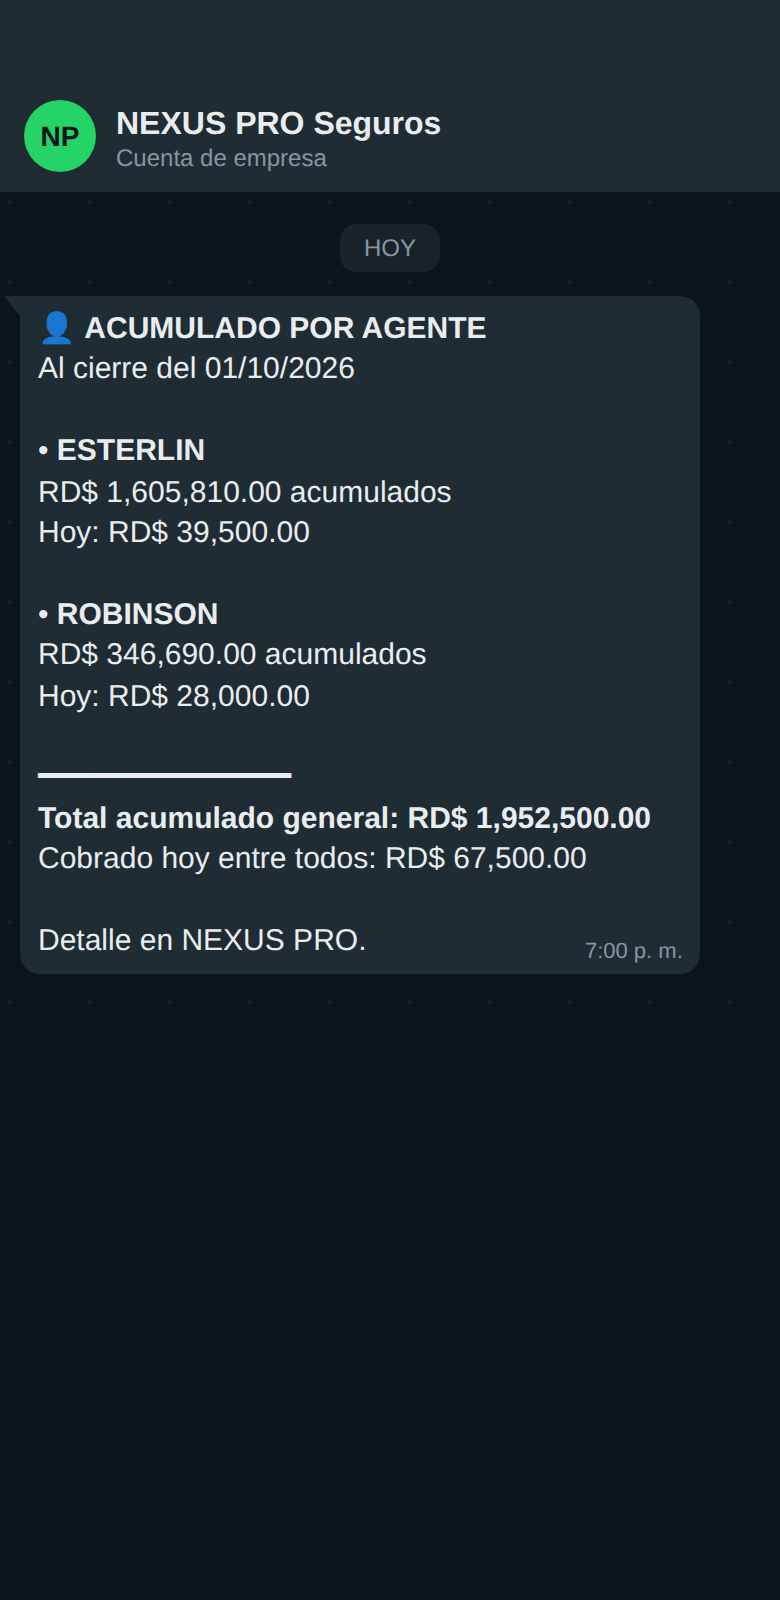
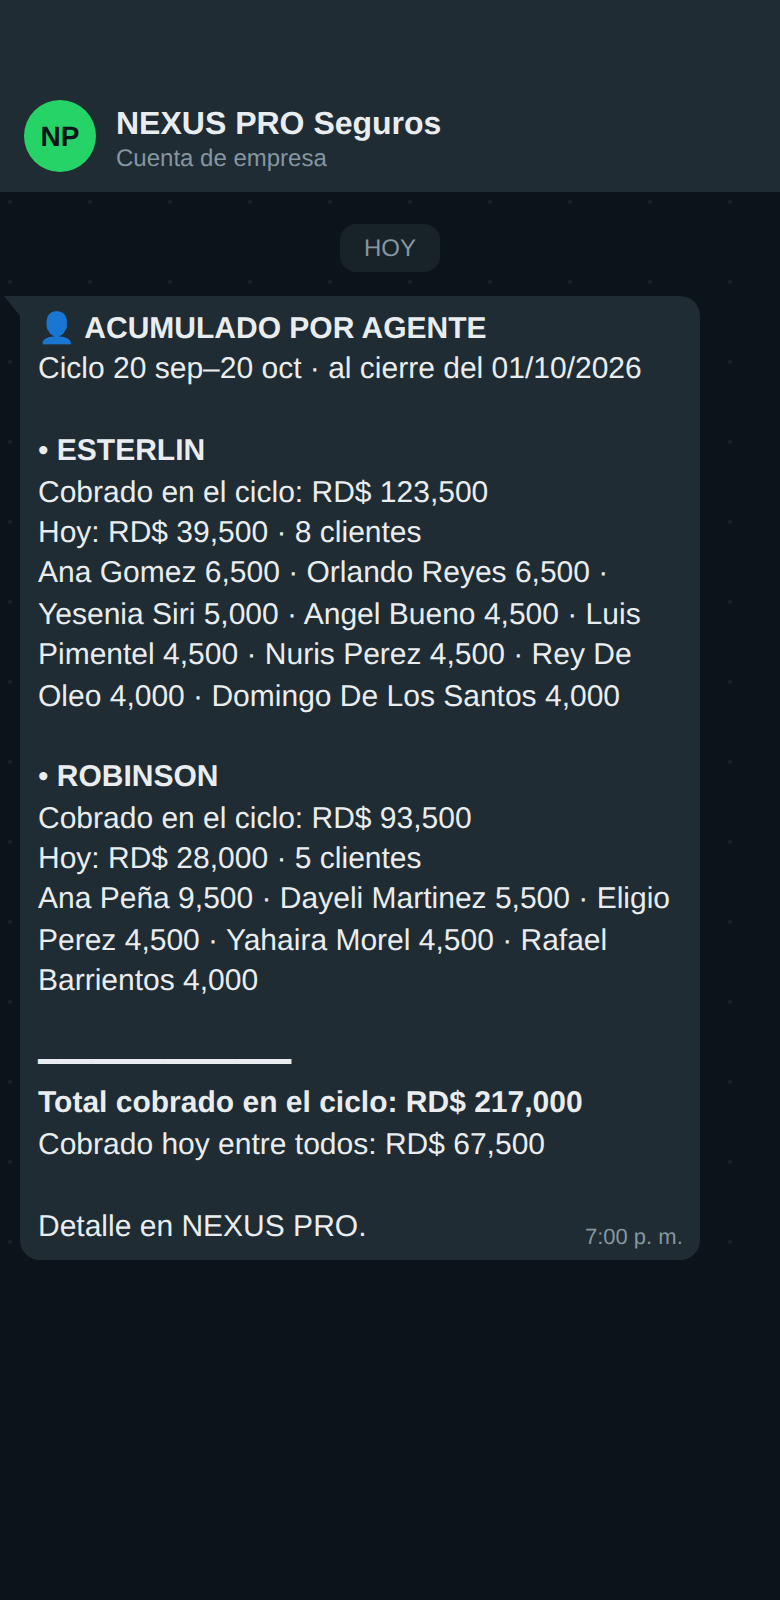
Acumulado por agente: por ciclo y con los clientes cobrados hoy (sin publicar)
Claude-Session: https://claude.ai/code/session_01XsqePqNsr899Mjtsv3s8DJ

Changed region(s): [[0.0, 0.2812, 0.9231, 0.8125], [0.0308, 0.2188, 0.8308, 0.25]]

diff --git a/supabase/functions/whatsapp-reporte-diario-agentes/index.ts b/supabase/functions/whatsapp-reporte-diario-agentes/index.ts
@@ -110,10 +110,11 @@ function fechaCobro(a: any) {
 }
 async function cobradoHoyPorAgente(ini: string, fin: string) {
   const { data, error } = await db.from("abonos")
-    .select("agente_cobro,monto,metodo,validacion_estado,validado_at,fecha,created_at,estado,reversado_at")
+    .select("agente_cobro,cliente_id,monto,metodo,validacion_estado,validado_at,fecha,created_at,estado,reversado_at")
     .or(`validado_at.gte.${ini},fecha.gte.${ini},created_at.gte.${ini}`);
   if (error) throw new Error(`abonos hoy: ${error.message}`);
-  const out = new Map<string, number>();
+  // agente → { total, porCliente: cliente_id → monto }
+  const out = new Map<string, { total: number; porCliente: Map<string, number> }>();
   for (const a of data || []) {
     const t = fechaCobro(a);
     if (!t) continue;
@@ -121,7 +122,12 @@ async function cobradoHoyPorAgente(ini: string, fin: string) {
     if (ms < new Date(ini).getTime() || ms >= new Date(fin).getTime()) continue;
     if (a.reversado_at || String(a.estado || "") === "Reversado") continue;
     const k = String(a.agente_cobro || "");
-    out.set(k, (out.get(k) || 0) + (Number(a.monto) || 0));
+    if (!out.has(k)) out.set(k, { total: 0, porCliente: new Map() });
+    const r = out.get(k)!;
+    const m = Number(a.monto) || 0;
+    r.total += m;
+    const c = String(a.cliente_id || "");
+    r.porCliente.set(c, (r.porCliente.get(c) || 0) + m);
   }
   return out;
 }
@@ -250,28 +256,57 @@ const EJEMPLO_ADMIN_V2 = ["01/10/2026", "ANA", "20 sep–20 oct", "217,000", "40
   "Luis Díaz — 4 meses — RD$ 12,000", "Rosa Peña — 2 meses — RD$ 8,000", "Juan Cruz — 1 mes — RD$ 6,500", "10",
   "JUAN", "93,500", "80,000", "346,690", "14", "52,300", "2"];
 
-// Acumulado por agente. Tiene dos bloques fijos (hoy hay dos agentes activos: ESTERLIN y ROBINSON);
-// Meta no deja repetir bloques ni poner saltos de línea dentro de una variable. Si algún día hay más
-// agentes, los demás se agregan al final del último bloque para no perderlos.
+// Acumulado por agente DEL CICLO (20 → 20) + los clientes cobrados hoy. Dos bloques fijos (hoy hay dos
+// agentes activos: ESTERLIN y ROBINSON); Meta no deja repetir bloques ni poner saltos de línea dentro de
+// una variable, así que la lista de clientes de cada agente va en una sola línea separada por «·».
+// Si algún día hay más agentes, los demás se agregan al final de la lista del segundo bloque.
 const CUERPO_ACUMULADO = [
   "👤 *ACUMULADO POR AGENTE*",
-  "Al cierre del {{1}}",
+  "Ciclo {{1}} · al cierre del {{2}}",
   "",
-  "• *{{2}}*",
-  "RD$ {{3}} acumulados",
-  "Hoy: RD$ {{4}}",
+  "• *{{3}}*",
+  "Cobrado en el ciclo: RD$ {{4}}",
+  "Hoy: RD$ {{5}} · {{6}}",
+  "{{7}}",
   "",
-  "• *{{5}}*",
-  "RD$ {{6}} acumulados",
-  "Hoy: RD$ {{7}}",
+  "• *{{8}}*",
+  "Cobrado en el ciclo: RD$ {{9}}",
+  "Hoy: RD$ {{10}} · {{11}}",
+  "{{12}}",
   "",
   "━━━━━━━━━━━━━━",
-  "*Total acumulado general: RD$ {{8}}*",
-  "Cobrado hoy entre todos: RD$ {{9}}",
+  "*Total cobrado en el ciclo: RD$ {{13}}*",
+  "Cobrado hoy entre todos: RD$ {{14}}",
   "",
   "Detalle en NEXUS PRO."
 ].join("\n");
-const EJEMPLO_ACUMULADO = ["01/10/2026", "JUAN", "1,605,810.00", "39,500.00", "PEDRO", "346,690.00", "28,000.00", "1,952,500.00", "67,500.00"];
+const EJEMPLO_ACUMULADO = ["20 sep–20 oct", "01/10/2026", "JUAN", "123,500", "39,500", "8 clientes",
+  "Ana Gómez 6,500 · Orlando Reyes 6,500 · Yesenia Siri 5,000", "PEDRO", "93,500", "28,000", "5 clientes",
+  "Ana Peña 9,500 · Dayeli Martínez 5,500", "217,000", "67,500"];
+
+// «ANA LUISA GOMEZ GARCIA» → «Ana Gomez»; respeta partículas («Domingo De Los Santos», «Rey De Oleo»).
+const PARTICULAS = new Set(["DE", "DEL", "LA", "LAS", "LOS", "Y"]);
+function nombreYApellido(v: unknown) {
+  const t = String(v || "").trim().split(/\s+/).filter(Boolean);
+  if (!t.length) return "Sin nombre";
+  let i = t.length >= 4 && !PARTICULAS.has(t[1].toUpperCase()) ? 2 : 1;
+  const out = [t[0]];
+  while (i < t.length && PARTICULAS.has(t[i].toUpperCase())) out.push(t[i++]);
+  if (i < t.length) out.push(t[i]);
+  return out.map((w) => w.charAt(0).toUpperCase() + w.slice(1).toLowerCase()).join(" ");
+}
+function listaClientesHoy(items: { nom: string; monto: number }[], maxChars = 230) {
+  if (!items.length) return "Sin cobros hoy";
+  const orden = [...items].sort((a, b) => b.monto - a.monto);
+  const out: string[] = [];
+  let usados = 0;
+  for (let k = 0; k < orden.length; k++) {
+    const p = `${nombreYApellido(orden[k].nom)} ${fmtCorto(orden[k].monto)}`;
+    if (out.length && usados + p.length + 3 > maxChars - 20) { out.push(`… y ${orden.length - k} más`); break; }
+    out.push(p); usados += p.length + 3;
+  }
+  return out.join(" · ");
+}
 
 // Vista previa del texto tal como lo verá el teléfono (para pruebas «dry» y para medir el largo).
 function renderizar(cuerpo: string, vars: string[]) {
@@ -551,14 +586,20 @@ Deno.serve(async (req: Request) => {
 
     // 3) Acumulado por agente → solo administradores, un mensaje al día (cuando Meta aprueba la plantilla).
     const hoyMapa = await cobradoHoyPorAgente(hoy.ini, hoy.fin);
-    const orden = [...infos].sort((x, y) => y.enPoder - x.enPoder);
-    const slot = (i: any) => i ? [String(i.a.nom || "Agente"), fmtMonto(i.enPoder), fmtMonto(hoyMapa.get(String(i.a.id)) || 0)] : ["—", "0.00", "0.00"];
-    const extra = orden.slice(2).map((i) => ` · ${i.a.nom}: RD$ ${fmtMonto(i.enPoder)} acumulados, hoy RD$ ${fmtMonto(hoyMapa.get(String(i.a.id)) || 0)}`).join("");
+    const nomCliente = new Map(clientes.map((c: any) => [String(c.id), String(c.nom || "Sin nombre")]));
+    const hoyDe = (i: any) => hoyMapa.get(String(i.a.id)) || { total: 0, porCliente: new Map<string, number>() };
+    const orden = [...infos].sort((x, y) => y.cobrado - x.cobrado);
+    const slot = (i: any) => {
+      if (!i) return ["—", "0", "0", "0 clientes", "Sin cobros hoy"];
+      const h = hoyDe(i);
+      const n = h.porCliente.size;
+      const items = [...h.porCliente.entries()].map(([id, monto]) => ({ nom: nomCliente.get(id) || "Sin nombre", monto }));
+      return [String(i.a.nom || "Agente"), fmtCorto(i.cobrado), fmtCorto(h.total), `${n} cliente${n === 1 ? "" : "s"}`, listaClientesHoy(items)];
+    };
     const b1 = slot(orden[0]), b2 = slot(orden[1]);
-    b2[2] += extra;
-    const totalAcum = orden.reduce((t, i) => t + i.enPoder, 0);
-    const totalHoy = orden.reduce((t, i) => t + (hoyMapa.get(String(i.a.id)) || 0), 0);
-    const varsAcumulado = [fecha, ...b1, ...b2, fmtMonto(totalAcum), fmtMonto(totalHoy)].map(limpiarParam);
+    b2[4] += orden.slice(2).map((i) => ` · ${i.a.nom}: ciclo RD$ ${fmtCorto(i.cobrado)}, hoy RD$ ${fmtCorto(hoyDe(i).total)}`).join("");
+    const totalHoy = [...hoyMapa.values()].reduce((t, r) => t + r.total, 0);
+    const varsAcumulado = [etiqueta, fecha, ...b1, ...b2, fmtCorto(negocioCiclo), fmtCorto(totalHoy)].map(limpiarParam);
     if (dry) {
       resultados.push({ acumulado_agentes: true, vista: renderizar(CUERPO_ACUMULADO, varsAcumulado) });
     } else if (!soloAgenteId && (await plantillaAprobada(cfg.zernio_account_id, TEMPLATE_ACUMULADO))) {

diff --git a/docs/bitacora/2026-10-02-0930-claude.md b/docs/bitacora/2026-10-02-0930-claude.md
@@ -1,0 +1,25 @@
+## Claude — 2026-10-02 09:30 (RD)
+
+# «Acumulado por agente»: por ciclo + clientes cobrados hoy
+
+Corrige `2026-10-02-0900-claude.md` a pedido del dueño: «Recuerda que es por ciclo y el detalle de los clientes
+que se han cobrado».
+
+## Cambio (rama `claude/reporte-diario-v2`, SIN publicar)
+
+- `acumulado_agentes_diario` ahora tiene **14 variables**:
+  - encabezado «Ciclo 20 sep–20 oct · al cierre del dd/mm/aaaa»;
+  - por agente: **Cobrado en el ciclo** (`seguros_resumen_ciclo_agente_core.cobrado_validado`, atribución por
+    fecha real de cobro/validación), **Hoy** con cantidad de clientes, y la **lista de clientes cobrados hoy**
+    con su monto, del mayor al menor;
+  - total: **Total cobrado en el ciclo** (todos los agentes, sin sumar entregas/transferencias) y cobrado hoy.
+- Ya no muestra el acumulado histórico en poder: eso queda en el reporte de cada agente.
+- Nombres cortos (primer nombre + primer apellido, respetando «De», «De Los»). La lista va en una línea separada
+  por «·» porque Meta no permite saltos de línea en variables; si es muy larga, termina en «… y N más».
+- Bloques ordenados por cobrado en el ciclo (mayor primero).
+
+## Vista previa con datos reales del 01-oct
+
+ESTERLIN: ciclo 123,500 · hoy 39,500 (8 clientes). ROBINSON: ciclo 93,500 · hoy 28,000 (5 clientes).
+Total del ciclo 217,000 · hoy 67,500. 618 caracteres. Imagen: `docs/bitacora/img/2026-10-02-acumulado-agentes.png`.
+Transpilación TypeScript sin diagnósticos.
